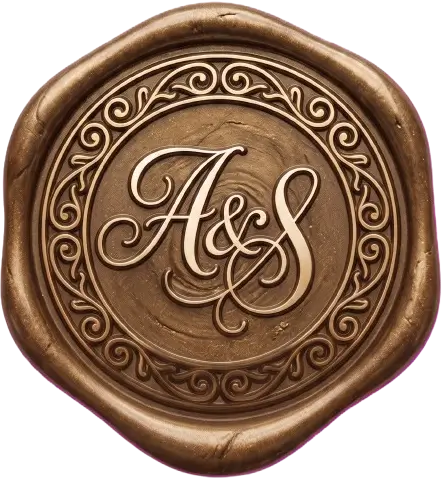
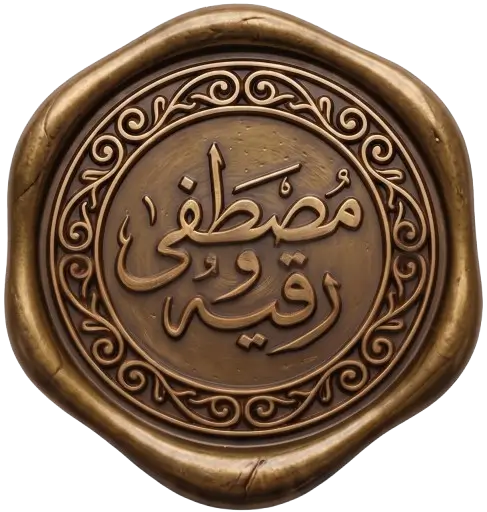
second update

diff --git a/js/config.js b/js/config.js
@@ -72,15 +72,14 @@ function formatTimeRange(startDate, endDate) {
   };
 }
 
-const WEDDING_DATE = new Date("2026-10-03T20:30:00"); // ISO date used by the countdown — EDIT THIS to the real date/time.
-const WEEDING_END_DATE = new Date("2026-10-03T22:00:00");
+const WEDDING_DATE = new Date("2026-10-16T21:00:00"); // ISO date used by the countdown — EDIT THIS to the real date/time.
+const WEEDING_END_DATE = new Date("2026-10-16T22:30:00");
 
 const WEDDING_CONFIG = {
   // ---------- Couple ----------
   couple: {
-    bride: { en: "Safaa", ar: "صفاء" },
-    groom: { en: "Ahmed", ar: "أحمد" },
-    // Shown as "Ahmed & Safaa" — order for each language
+    bride: { en: "Ruqaya", ar: "رقية" },
+    groom: { en: "Mustafa", ar: "مصطفى" },
     order: { en: ["groom", "bride"], ar: ["groom", "bride"] },
   },
 
@@ -110,10 +109,8 @@ const WEDDING_CONFIG = {
   guestMessage: {
     title: { en: "You're Invited", ar: "أنتم مدعوون" },
     body: {
-      // en: "With hearts full of joy, we invite you to share in the beginning of our forever. Your presence would mean the world to us as we celebrate this new chapter together.",
-      en: "As we take this next big step, we can’t imagine doing it without the people who mean the most to us. Come celebrate the beginning of our forever and share in a day full of love, joy, and new memories.",
-      // ar: "بقلوب مفعمة بالفرح، ندعوكم لمشاركتنا بداية حياتنا معًا. وجودكم معنا سيعني لنا الكثير ونحن نحتفل بهذا الفصل الجديد.",
-      ar: "ونحن نخطو هذه الخطوة الكبيرة في حياتنا، لا يمكننا تخيل هذا اليوم دون وجود الأشخاص الأقرب إلى قلوبنا. شاركونا بداية رحلتنا الأبدية، ولنتقاسم معاً يوماً يفيض بالحب والبهجة والذكريات السعيدة.",
+      en: "As we take this next big step, we can’t imagine doing it without the people who mean the most to us. Come celebrate this blessed day with us and share in a day full of love, joy, and new memories.",
+      ar: "ونحن نخطو هذه الخطوة الكبيرة في حياتنا، لا يمكننا تخيل هذا اليوم دون وجود الأشخاص الأقرب إلى قلوبنا. شاركونا هذا اليوم المبارك، ولنتقاسم معاً يوماً يفيض بالحب والبهجة والذكريات السعيدة.",
     },
   },
 
@@ -132,26 +129,29 @@ const WEDDING_CONFIG = {
   schedule: {
     title: { en: "Schedule of Events", ar: "برنامج الحفل" },
     items: [
-      { time: "8:30 PM", en: "Guest Arrival", ar: "استقبال الضيوف" },
-      { time: "8:45 PM", en: "Ceremony", ar: "حفل العقد" },
-      { time: "9:00 PM", en: "Photography", ar: "التصوير" },
-      // { time: "9:30 PM", en: "Dinner Reception", ar: "حفل العشاء" },
-      { time: "10:00 PM", en: "Farewell", ar: "الوداع" },
+      { time: "9:00 PM", en: "Guest Arrival", ar: "استقبال الضيوف" },
+      { time: "9:15 PM", en: "Nikkah Ceremony", ar: "كتب الكتاب" },
+      { time: "10:00 PM", en: "Welcome Drinks", ar: "تقديم واجب الضيافة" },
+      { time: "10:15 PM", en: "Photography", ar: " الصور التذكارية" },
+      { time: "10:30 PM", en: "Farewell", ar: "المغادرة" },
     ],
   },
 
   // ---------- Location ----------
   location: {
     title: { en: "Venue", ar: "المكان" },
-    venueName: { en: "Al Nour Hall, El-Moshir Tantawy Mosque", ar: "قاعة النور مسجد المشير طنطاوي" },
+    venueName: {
+      en: "Al-Farouk Mosque Halls (Al Malakia)",
+      ar: "قاعات مسجد الفاروق ( القاعة الملكية )",
+    },
     address: {
-      en: "El-Moshir Tantawy Axis, Fifth Settlement, New Cairo, Egypt",
-      ar: "محــور المشير طنطاوى بالتجمــع الخامــس",
+      en: "Al-Farouk Mosque Halls | Sheraton | Heliopolis",
+      ar: "قاعات الفاروق | شيراتون | مصر الجديدة",
     },
     // Used to build the embedded map + "open in maps" link.
     // Replace with the real address or "lat,lng".
     // mapQuery: "El-Mosheer Tantawy Mosque",
-    mapQuery: "30.017616828375548, 31.38366960736208",
+    mapQuery: "قاعات الفاروق",
     image: "assets/mosque-image.webp",
   },
 
@@ -159,8 +159,6 @@ const WEDDING_CONFIG = {
   dressCode: {
     title: { en: "Dress Code", ar: "الزي المفضل" },
     body: {
-      // en: "We kindly invite you to dress in elegant, modest attire. Soft neutrals, ivory, and gold tones are especially welcome.",
-      // ar: "يسعدنا أن يحضر ضيوفنا الكرام بإطلالة أنيقة ومحتشمة. الألوان الهادئة والعاجية والذهبية موضع ترحيب خاص.",
       en: "We kindly invite you to dress in elegant, modest attire. Soft neutrals tones are especially welcome.",
       ar: "يسعدنا أن يحضر ضيوفنا الكرام بإطلالة أنيقة ومحتشمة. الألوان الهادئة موضع ترحيب خاص.",
     },
@@ -178,8 +176,7 @@ const WEDDING_CONFIG = {
     buttonLabel: { en: "Confirm Attendance", ar: "أكد حضورك" },
     // ⚠ REQUIRED: paste your deployed Google Apps Script Web App URL here.
     // See README.md for the exact Apps Script code this form expects.
-    scriptURL:
-      "https://script.google.com/macros/s/AKfycbxnwgSNnIVSTu1NJq1gp8odAybf6iSQV-esszSPdRuPIV7YX5oX6TEVfWzWQ9iglq-pEQ/exec",
+    scriptURL: "",
     form: {
       name: { en: "Full Name", ar: "الاسم الكامل" },
       guests: { en: "Number of Guests", ar: "عدد الضيوف" },

diff --git a/index.html b/index.html
@@ -8,15 +8,14 @@
 
     <!-- Open Graph / WhatsApp / Facebook Link Preview -->
     <meta property="og:type" content="website" />
-    <meta property="og:url" content="https://ahmed-safaa-wedding.vercel.app/" />
-    <meta property="og:title" content="💍 Ahmed & Safaa — Wedding Invitation 💐" />
-    <meta property="og:description" content="You're invited to celebrate our wedding with us." />
+    <meta property="og:url" content="mustafa-ruqaya-wedding.vercel.app" />
+    <!-- <meta property="og:title" content="💍 Mustafa & Ruqaya — Wedding Invitation 💐" /> -->
+    <meta property="og:title" content="💍 مصطفى و رقية 💐" />
+    <!-- <meta property="og:description" content="You're invited to celebrate our wedding with us." /> -->
+    <meta property="og:description" content="أنتم مدعوون للاحتفال باليوم المبارك لزواجنا" />
 
     <!-- MUST be a full absolute URL for WhatsApp/iMessage to load it -->
-    <meta
-      property="og:image"
-      content="https://ahmed-safaa-wedding.vercel.app/assets/preview-envelope.webp"
-    />
+    <meta property="og:image" content="mustafa-ruqaya-wedding.vercel.app/assets/preview-envelope.webp" />
     <!-- <meta property="og:image" content="/assets/preview-envelope.webp" /> -->
     <meta property="og:image:width" content="1212" />
     <meta property="og:image:height" content="630" />
@@ -129,11 +128,8 @@
       <!-- ---------- HERO ---------- -->
       <section id="hero" class="section hero-section">
         <div class="section-inner hero-inner">
-          <!-- <p class="eyebrow" id="hero-eyebrow">Wedding Day</p>
-          <h1 class="display-title" id="hero-names">Ahmed &amp; Safaa</h1>
-          <p class="hero-names" id="hero-title">03.10.2026</p> -->
           <h1 class="display-title" id="hero-title">Wedding Day</h1>
-          <p class="hero-names" id="hero-names">Ahmed &amp; Safaa</p>
+          <p class="hero-names" id="hero-names">Mustafa &amp; Ruqaya</p>
           <p class="eyebrow" id="hero-eyebrow">03.10.2026</p>
 
           <div class="ornament" aria-hidden="true">
@@ -414,7 +410,7 @@
             </svg>
           </div>
           <p class="closing-line" id="closing-line">Hope to see you there</p>
-          <p class="closing-names" id="closing-names">Ahmed &amp; Safaa</p>
+          <p class="closing-names" id="closing-names">Mustafa &amp; Ruqaya</p>
         </div>
       </section>
     </div>

diff --git a/js/i18n.js b/js/i18n.js
@@ -117,7 +117,8 @@ Invite.i18n = (function () {
   }
 
   function init() {
-    apply(detectLang());
+    // apply(detectLang());
+    apply("ar"); // default to Arabic
     const btn = document.getElementById("lang-toggle");
     if (btn) btn.addEventListener("click", toggle);
   }

diff --git a/css/style.css b/css/style.css
@@ -529,7 +529,7 @@ html:lang(en) .util-btn {
 .hero-names {
   font-family: var(--font-display);
   font-weight: 600;
-  font-size: clamp(2.75rem, 9vw, 3.6rem);
+  font-size: clamp(2.65rem, 9vw, 3.6rem);
   margin: 10px 0 10px;
   color: var(--color-ink);
   letter-spacing: 0.01em;
